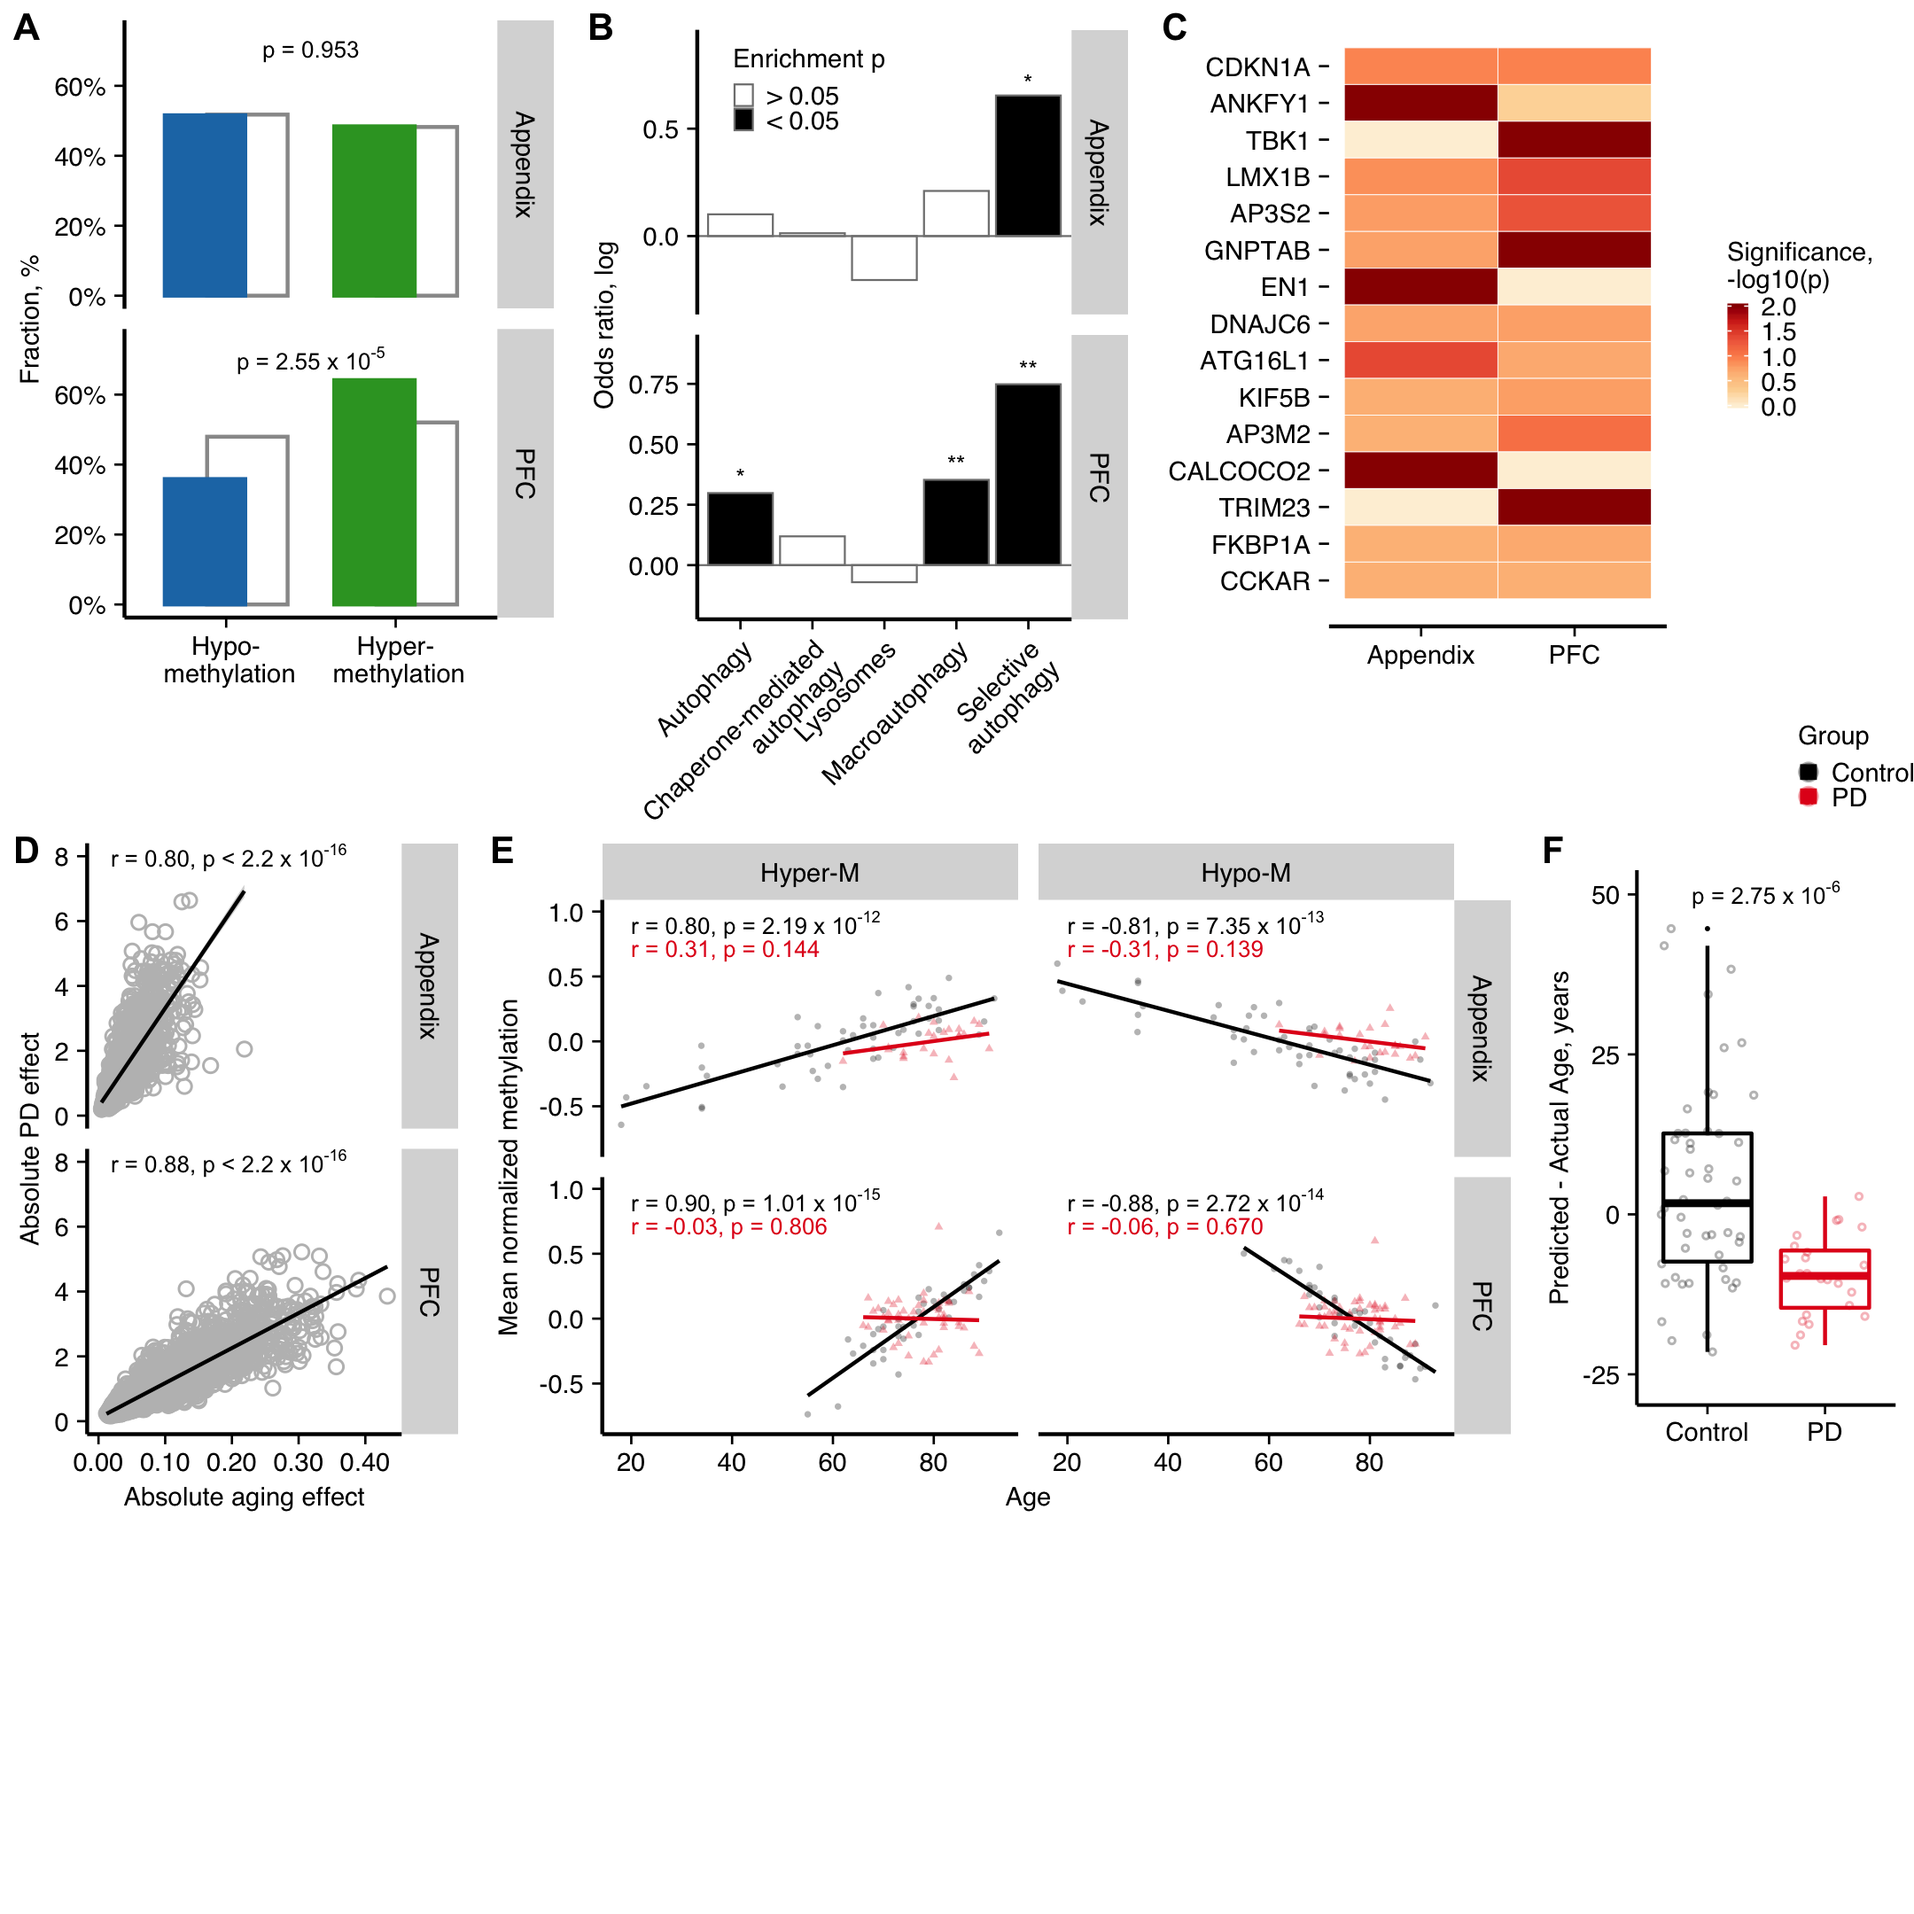
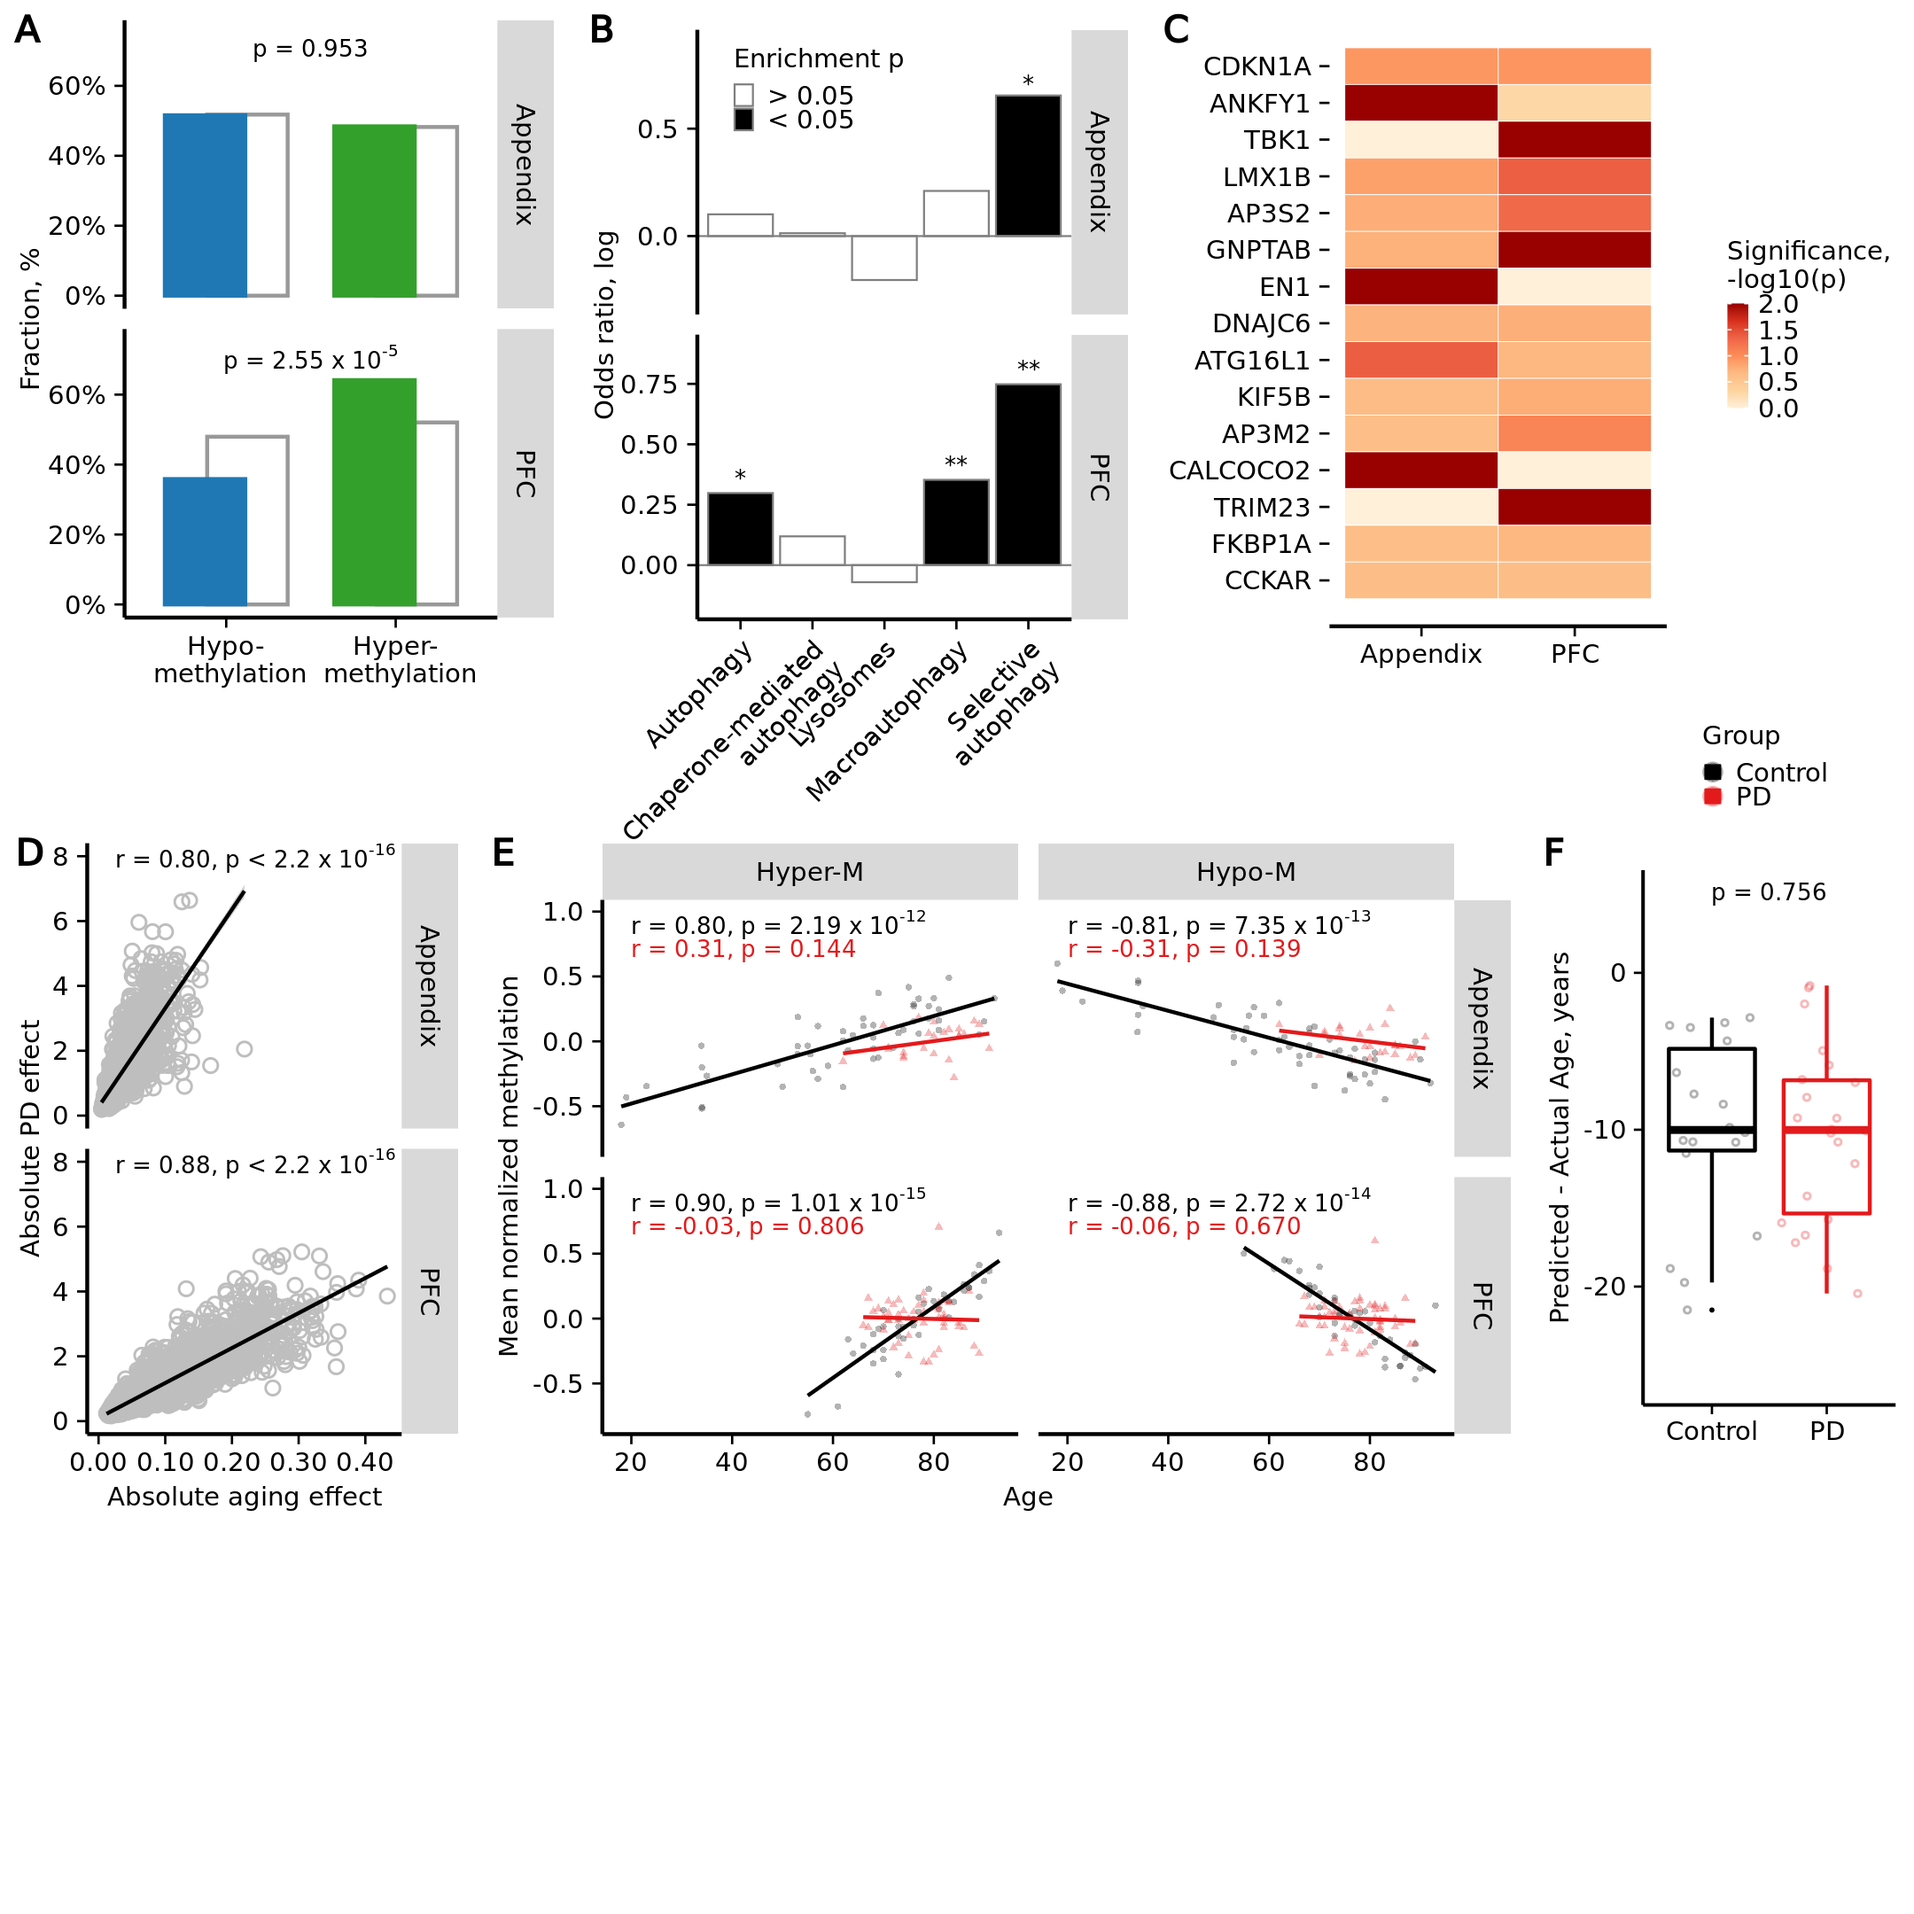
Update to Figure 4 - age matched samples for age acceleration

diff --git a/Figure4/index.html b/Figure4/index.html
@@ -209,6 +209,9 @@ summary {
 
 
 <!-- # (c)  Juozas Gordevičius -->
+<pre><code>## `geom_smooth()` using formula &#39;y ~ x&#39;
+## `geom_smooth()` using formula &#39;y ~ x&#39;
+## `geom_smooth()` using formula &#39;y ~ x&#39;</code></pre>
 <img src="index_files/figure-html/unnamed-chunk-9-1.png" width="100%" /> <!--html_preserve-->
 <script type="application/shiny-prerendered" data-context="dependencies">
 {"type":"list","attributes":{},"value":[{"type":"list","attributes":{"names":{"type":"character","attributes":{},"value":["name","version","src","meta","script","stylesheet","head","attachment","package","all_files","pkgVersion"]},"class":{"type":"character","attributes":{},"value":["html_dependency"]}},"value":[{"type":"character","attributes":{},"value":["jquery"]},{"type":"character","attributes":{},"value":["1.11.3"]},{"type":"list","attributes":{"names":{"type":"character","attributes":{},"value":["file"]}},"value":[{"type":"character","attributes":{},"value":["rmd/h/jquery"]}]},{"type":"NULL"},{"type":"character","attributes":{},"value":["jquery.min.js"]},{"type":"NULL"},{"type":"NULL"},{"type":"NULL"},{"type":"character","attributes":{},"value":["rmarkdown"]},{"type":"logical","attributes":{},"value":[true]},{"type":"character","attributes":{},"value":["1.18"]}]},{"type":"list","attributes":{"names":{"type":"character","attributes":{},"value":["name","version","src","meta","script","stylesheet","head","attachment","package","all_files","pkgVersion"]},"class":{"type":"character","attributes":{},"value":["html_dependency"]}},"value":[{"type":"character","attributes":{},"value":["bootstrap"]},{"type":"character","attributes":{},"value":["3.3.5"]},{"type":"list","attributes":{"names":{"type":"character","attributes":{},"value":["file"]}},"value":[{"type":"character","attributes":{},"value":["rmd/h/bootstrap"]}]},{"type":"list","attributes":{"names":{"type":"character","attributes":{},"value":["viewport"]}},"value":[{"type":"character","attributes":{},"value":["width=device-width, initial-scale=1"]}]},{"type":"character","attributes":{},"value":["js/bootstrap.min.js","shim/html5shiv.min.js","shim/respond.min.js"]},{"type":"character","attributes":{},"value":["css/bootstrap.min.css"]},{"type":"NULL"},{"type":"NULL"},{"type":"character","attributes":{},"value":["rmarkdown"]},{"type":"logical","attributes":{},"value":[true]},{"type":"character","attributes":{},"value":["1.18"]}]},{"type":"list","attributes":{"names":{"type":"character","attributes":{},"value":["name","version","src","meta","script","stylesheet","head","attachment","package","all_files","pkgVersion"]},"class":{"type":"character","attributes":{},"value":["html_dependency"]}},"value":[{"type":"character","attributes":{},"value":["jquery"]},{"type":"character","attributes":{},"value":["1.11.3"]},{"type":"list","attributes":{"names":{"type":"character","attributes":{},"value":["file"]}},"value":[{"type":"character","attributes":{},"value":["rmd/h/jquery"]}]},{"type":"NULL"},{"type":"character","attributes":{},"value":["jquery.min.js"]},{"type":"NULL"},{"type":"NULL"},{"type":"NULL"},{"type":"character","attributes":{},"value":["rmarkdown"]},{"type":"logical","attributes":{},"value":[true]},{"type":"character","attributes":{},"value":["1.18"]}]},{"type":"list","attributes":{"names":{"type":"character","attributes":{},"value":["name","version","src","meta","script","stylesheet","head","attachment","package","all_files","pkgVersion"]},"class":{"type":"character","attributes":{},"value":["html_dependency"]}},"value":[{"type":"character","attributes":{},"value":["navigation"]},{"type":"character","attributes":{},"value":["1.1"]},{"type":"list","attributes":{"names":{"type":"character","attributes":{},"value":["file"]}},"value":[{"type":"character","attributes":{},"value":["rmd/h/navigation-1.1"]}]},{"type":"NULL"},{"type":"character","attributes":{},"value":["tabsets.js"]},{"type":"NULL"},{"type":"NULL"},{"type":"NULL"},{"type":"character","attributes":{},"value":["rmarkdown"]},{"type":"logical","attributes":{},"value":[true]},{"type":"character","attributes":{},"value":["1.18"]}]},{"type":"list","attributes":{"names":{"type":"character","attributes":{},"value":["name","version","src","meta","script","stylesheet","head","attachment","package","all_files","pkgVersion"]},"class":{"type":"character","attributes":{},"value":["html_dependency"]}},"value":[{"type":"character","attributes":{},"value":["highlightjs"]},{"type":"character","attributes":{},"value":["9.12.0"]},{"type":"list","attributes":{"names":{"type":"character","attributes":{},"value":["file"]}},"value":[{"type":"character","attributes":{},"value":["rmd/h/highlightjs"]}]},{"type":"NULL"},{"type":"character","attributes":{},"value":["highlight.js"]},{"type":"character","attributes":{},"value":["default.css"]},{"type":"NULL"},{"type":"NULL"},{"type":"character","attributes":{},"value":["rmarkdown"]},{"type":"logical","attributes":{},"value":[true]},{"type":"character","attributes":{},"value":["1.18"]}]}]}
@@ -216,7 +219,7 @@ summary {
 <!--/html_preserve-->
 <!--html_preserve-->
 <script type="application/shiny-prerendered" data-context="execution_dependencies">
-{"type":"list","attributes":{"names":{"type":"character","attributes":{},"value":["packages"]}},"value":[{"type":"list","attributes":{"names":{"type":"character","attributes":{},"value":["packages","version"]},"class":{"type":"character","attributes":{},"value":["data.frame"]},"row.names":{"type":"integer","attributes":{},"value":[1,2,3,4,5,6,7,8,9,10,11,12,13,14,15,16,17,18,19,20,21,22,23,24,25,26,27,28,29,30,31,32,33,34,35,36,37,38,39,40,41,42,43,44,45,46,47,48,49,50,51,52,53,54,55,56,57,58,59,60,61,62,63,64,65,66,67,68,69,70,71,72,73,74,75,76,77,78,79,80,81,82,83,84,85,86,87,88,89,90,91,92,93,94,95,96,97,98,99,100,101,102,103,104,105,106,107,108,109,110,111,112,113,114,115,116,117,118,119,120,121,122,123,124,125,126,127,128,129,130,131,132,133,134,135,136,137,138]}},"value":[{"type":"character","attributes":{},"value":["acepack","AnnotationDbi","assertthat","backports","base","base64enc","Biobase","BiocGenerics","bit","bit64","blob","broom","checkmate","circlize","cluster","codetools","colorspace","compiler","cowplot","crayon","data.table","datasets","DBI","DEoptimR","digest","doParallel","doSNOW","dplyr","dynamicTreeCut","evaluate","farver","fastcluster","fastmap","fit.models","foreach","foreign","Formula","generics","ggdendro","ggplot2","ggpubr","ggrepel","ggsignif","GlobalOptions","glue","GO.db","graphics","grDevices","grid","gridExtra","gridGraphics","gtable","gtools","Hmisc","hms","htmlTable","htmltools","htmlwidgets","httpuv","httr","impute","IRanges","iterators","itertools","jsonlite","kableExtra","knitr","labeling","later","latex2exp","lattice","latticeExtra","lazyeval","lifecycle","limma","magick","magrittr","MASS","Matrix","matrixStats","memoise","methods","mime","munsell","mvtnorm","nlme","nnet","parallel","pcaPP","pillar","pkgconfig","plotly","plyr","preprocessCore","promises","purrr","R6","RColorBrewer","Rcpp","readr","reshape2","rlang","rmarkdown","robust","robustbase","RobustRankAggreg","rpart","rrcov","RSQLite","rstudioapi","rvest","S4Vectors","scales","shape","shiny","sitools","snow","splines","stats","stats4","stringi","stringr","survival","tibble","tidyr","tidyselect","tools","utils","vctrs","viridisLite","webshot","WGCNA","withr","xfun","xml2","xtable","yaml","zeallot"]},{"type":"character","attributes":{},"value":["1.4.1","1.48.0","0.2.1","1.1.5","3.6.1","0.1-3","2.46.0","0.32.0","1.1-14","0.9-7","1.2.0","0.5.3","1.9.4","0.4.8","2.1.0","0.2-16","1.4-1","3.6.1","1.0.0","1.3.4","1.12.8","3.6.1","1.1.0","1.0-8","0.6.23","1.0.15","1.0.18","0.8.3","1.63-1","0.14","2.0.1","1.1.25","1.0.1","0.5-14","1.4.7","0.8-72","1.2-3","0.0.2","0.1-20","3.2.1","0.2.4","0.8.1","0.6.0","0.1.1","1.3.1","3.10.0","3.6.1","3.6.1","3.6.1","2.3","0.4-1","0.3.0","3.8.1","4.2-0","0.5.2","1.13.3","0.4.0","1.5.1","1.5.2","1.4.1","1.60.0","2.20.0","1.0.12","0.1-3","1.6","1.1.0","1.26","0.3","1.0.0","0.4.0","0.20-38","0.6-28","0.2.2","0.1.0","3.42.0","2.2","1.5","7.3-51.4","1.2-17","0.55.0","1.1.0","3.6.1","0.8","0.5.0","1.0-11","3.1-141","7.3-12","3.6.1","1.9-73","1.4.3","2.0.3","4.9.1","1.8.5","1.48.0","1.1.0","0.3.3","2.4.1","1.1-2","1.0.3","1.3.1","1.4.3","0.4.2","1.18","0.4-18.1","0.93-5","1.1","4.1-15","1.4-7","2.1.5","0.10","0.3.5","0.24.0","1.1.0","1.4.4","1.4.0","1.4","0.4-3","3.6.1","3.6.1","3.6.1","1.4.3","1.4.0","2.44-1.1","2.1.3","1.0.0","0.2.5","3.6.1","3.6.1","0.2.1","0.3.0","0.5.2","1.68","2.1.2","0.11","1.2.2","1.8-4","2.2.0","0.1.0"]}]}]}
+{"type":"list","attributes":{"names":{"type":"character","attributes":{},"value":["packages"]}},"value":[{"type":"list","attributes":{"names":{"type":"character","attributes":{},"value":["packages","version"]},"class":{"type":"character","attributes":{},"value":["data.frame"]},"row.names":{"type":"integer","attributes":{},"value":[1,2,3,4,5,6,7,8,9,10,11,12,13,14,15,16,17,18,19,20,21,22,23,24,25,26,27,28,29,30,31,32,33,34,35,36,37,38,39,40,41,42,43,44,45,46,47,48,49,50,51,52,53,54,55,56,57,58,59,60,61,62,63,64,65,66,67,68,69,70,71,72,73,74,75,76,77,78,79,80,81,82,83,84,85,86,87,88,89,90,91,92,93,94,95,96,97,98,99,100,101,102,103,104,105,106,107,108,109,110,111,112,113,114,115,116,117,118,119,120,121,122,123,124,125,126,127,128,129,130,131,132,133,134,135,136,137,138,139,140,141,142,143,144,145]}},"value":[{"type":"character","attributes":{},"value":["abind","acepack","AnnotationDbi","backports","base","base64enc","Biobase","BiocGenerics","bit","bit64","blob","broom","car","carData","cellranger","checkmate","circlize","cluster","codetools","colorspace","compiler","cowplot","crayon","curl","data.table","datasets","DBI","digest","doParallel","doSNOW","dplyr","dynamicTreeCut","ellipsis","evaluate","farver","fastcluster","fastmap","forcats","foreach","foreign","Formula","generics","ggdendro","ggplot2","ggpubr","ggrepel","ggsignif","GlobalOptions","glue","GO.db","graphics","grDevices","grid","gridExtra","gridGraphics","gtable","gtools","haven","Hmisc","hms","htmlTable","htmltools","htmlwidgets","httpuv","httr","impute","IRanges","iterators","itertools","jpeg","jsonlite","kableExtra","knitr","labeling","later","latex2exp","lattice","latticeExtra","lazyeval","lifecycle","limma","magick","magrittr","MASS","Matrix","matrixStats","memoise","methods","mgcv","mime","munsell","nlme","nnet","openxlsx","parallel","pillar","pkgconfig","plotly","plyr","png","preprocessCore","promises","purrr","R6","RColorBrewer","Rcpp","readr","readxl","reshape2","rio","rlang","rmarkdown","RobustRankAggreg","rpart","RSQLite","rstatix","rstudioapi","rvest","S4Vectors","scales","shape","shiny","sitools","snow","splines","stats","stats4","stringi","stringr","survival","tibble","tidyr","tidyselect","tools","utils","vctrs","viridisLite","webshot","WGCNA","withr","xfun","xml2","xtable","yaml","zip"]},{"type":"character","attributes":{},"value":["1.4-5","1.4.1","1.48.0","1.1.8","3.6.1","0.1-3","2.46.0","0.32.0","1.1-15.2","0.9-7","1.2.1","0.5.6","3.0-8","3.0-4","1.1.0","2.0.0","0.4.10","2.1.0","0.2-16","1.4-1","3.6.1","1.0.0","1.3.4","4.3","1.12.8","3.6.1","1.1.0","0.6.25","1.0.15","1.0.18","1.0.0","1.63-1","0.3.1","0.14","2.0.3","1.1.25","1.0.1","0.5.0","1.5.0","0.8-76","1.2-3","0.0.2","0.1-20","3.3.1","0.3.0","0.8.2","0.6.0","0.1.2","1.4.1","3.10.0","3.6.1","3.6.1","3.6.1","2.3","0.5-0","0.3.0","3.8.2","2.3.1","4.4-0","0.5.3","1.13.3","0.5.0","1.5.1","1.5.4","1.4.1","1.60.0","2.20.0","1.0.12","0.1-3","0.1-8.1","1.6.1","1.1.0","1.28","0.3","1.1.0.1","0.4.0","0.20-41","0.6-29","0.2.2","0.2.0","3.42.0","2.3","1.5","7.3-51.6","1.2-18","0.56.0","1.1.0","3.6.1","1.8-31","0.9","0.5.0","3.1-148","7.3-14","4.1.5","3.6.1","1.4.4","2.0.3","4.9.2.1","1.8.6","0.1-7","1.48.0","1.1.1","0.3.4","2.4.1","1.1-2","1.0.4.6","1.3.1","1.3.1","1.4.4","0.5.16","0.4.6","1.18","1.1","4.1-15","2.2.0","0.5.0","0.11","0.3.5","0.24.0","1.1.1","1.4.4","1.4.0.2","1.4","0.4-3","3.6.1","3.6.1","3.6.1","1.4.6","1.4.0","3.2-3","3.0.1","1.1.0","1.1.0","3.6.1","3.6.1","0.3.1","0.3.0","0.5.2","1.69","2.2.0","0.14","1.3.2","1.8-4","2.2.1","2.0.4"]}]}]}
 </script>
 <!--/html_preserve-->
 
